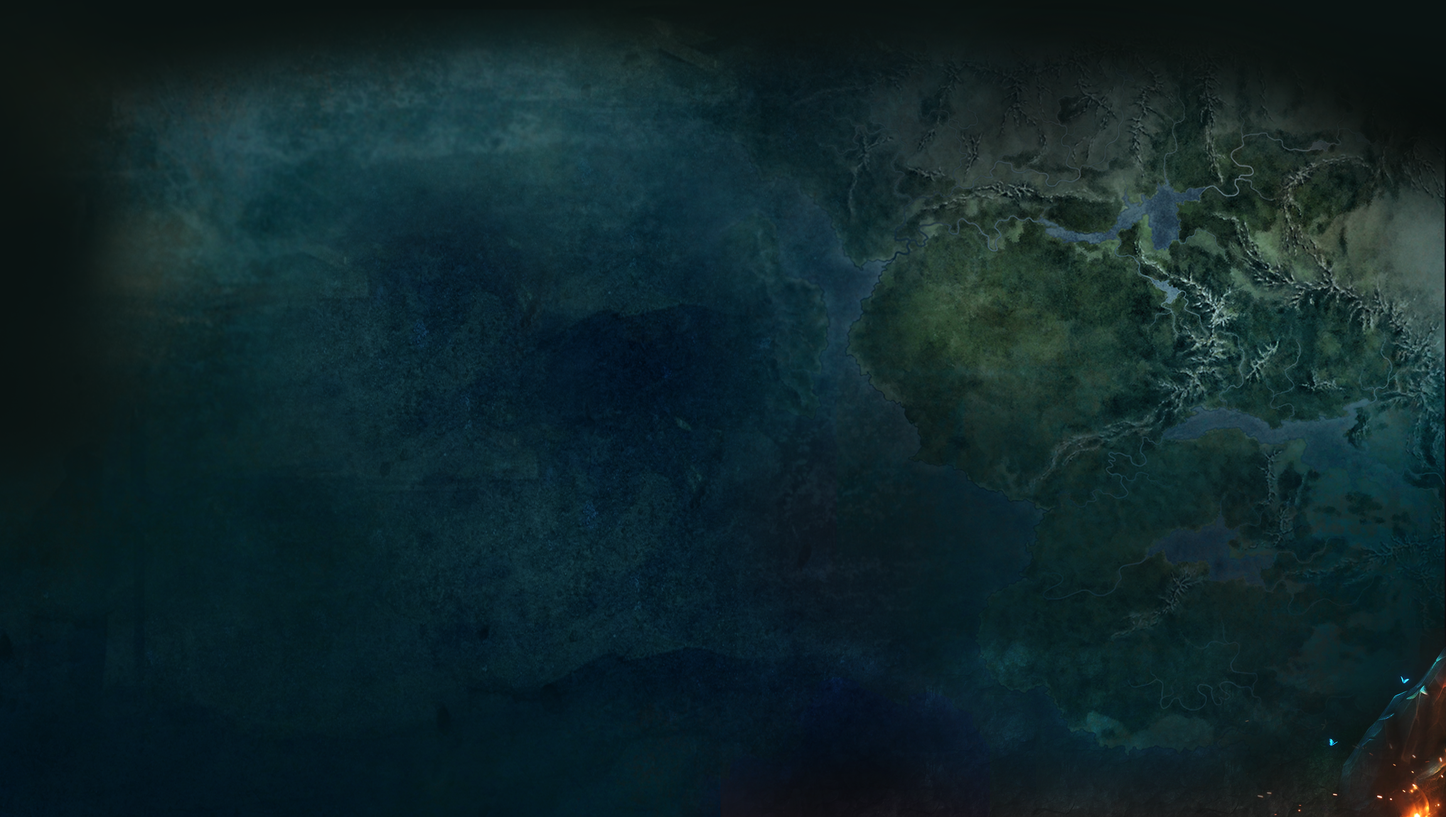
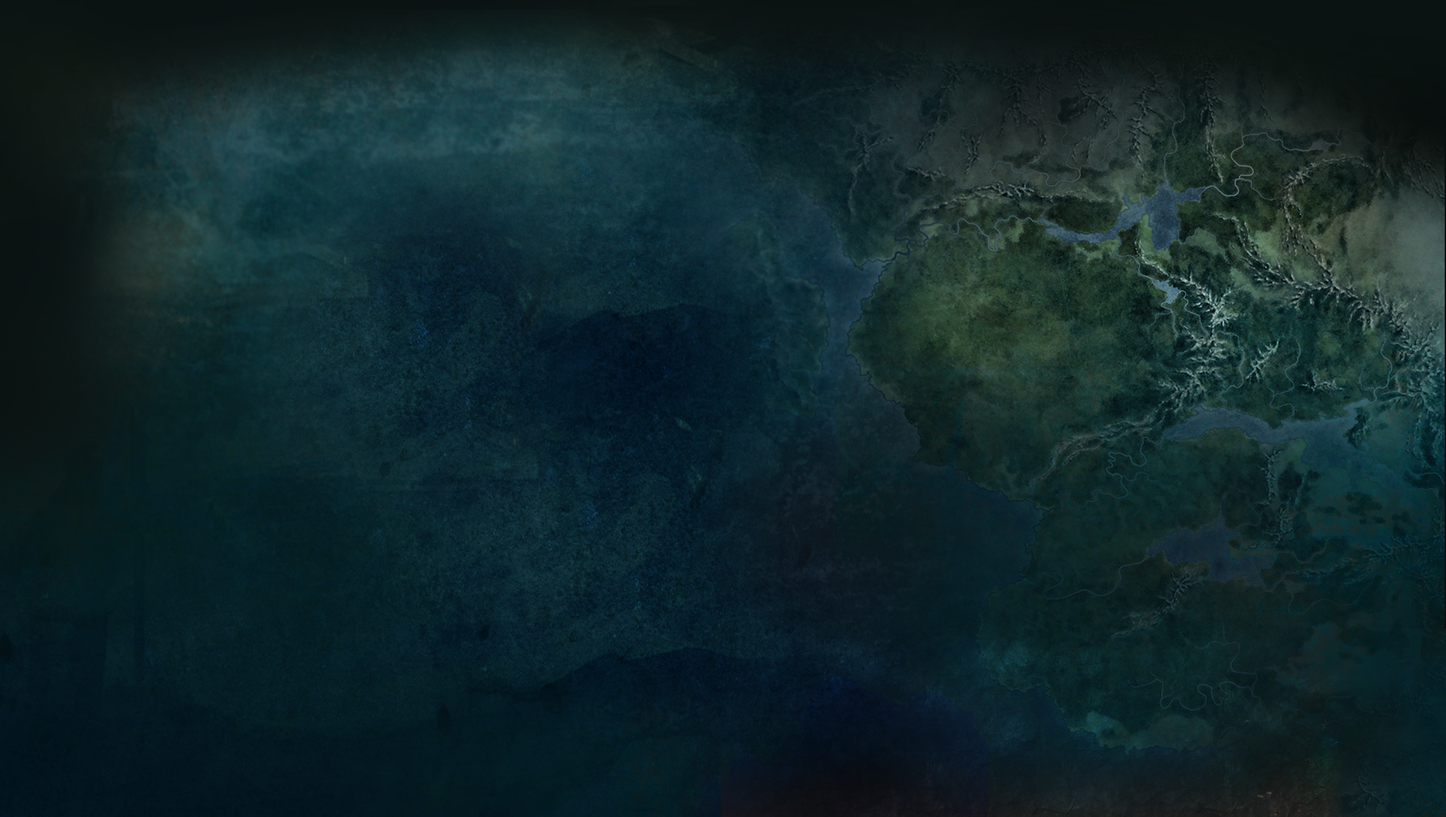
NorthGame rock fire animation

Changed region(s): [[0.9375, 0.7988, 1.0, 1.0]]

diff --git a/Samples/NorthGame/Unity/Assets/NoesisGUI/Samples/NorthGame/Play.xaml b/Samples/NorthGame/Unity/Assets/NoesisGUI/Samples/NorthGame/Play.xaml
@@ -399,15 +399,22 @@
                                 <StackPanel.ToolTip>
                                     <ToolTip BorderBrush="#FF6EB3CE" Background="#E51B4144" BorderThickness="1" Padding="10">
                                         <StackPanel>
-                                            <TextBlock FontSize="20">
-                                                <Span Foreground="#FFE8CD41" FontFamily="Fonts/#Interstate-Bold">GOLD:</Span> <Span Foreground="#FFB2E7E3">1280 coins</Span>
-                                            </TextBlock>
-                                            <TextBlock FontSize="20" Margin="0,10,0,0">
-                                                <Span Foreground="#FFAFBDC1" FontFamily="Fonts/#Interstate-Bold">SILVER:</Span> <Span Foreground="#FFB2E7E3">3547 coins</Span>
-                                            </TextBlock>
-                                            <TextBlock FontSize="20" Margin="0,10,0,0">
-                                                <Span Foreground="#FF91711B" FontFamily="Fonts/#Interstate-Bold">BRONZE:</Span> <Span Foreground="#FFB2E7E3">9415 coins</Span>
-                                            </TextBlock>
+                                            <StackPanel Orientation="Horizontal">
+                                                <Ellipse Fill="#FFE8CD41" Stroke="#FF91802C" StrokeThickness="3" Width="18" Height="18" Margin="0,0,8,0"/>
+                                                <TextBlock FontSize="20" Foreground="#FFE8CD41" FontFamily="Fonts/#Interstate-Bold" Width="90" Text="GOLD:" Margin="0,0,8,0"/>
+                                                <TextBlock FontSize="20" Foreground="#FFB2E7E3" Text="1280 coins"/>
+                                            </StackPanel>
+                                            <StackPanel Orientation="Horizontal" Margin="0,10,0,0">
+                                                <Ellipse Fill="#FFAFBDC1" Stroke="#FF7A7F81" StrokeThickness="3" Width="18" Height="18" Margin="0,0,8,0"/>
+                                                <TextBlock FontSize="20" Foreground="#FFAFBDC1" FontFamily="Fonts/#Interstate-Bold" Width="90" Text="SILVER:" Margin="0,0,8,0"/>
+                                                <TextBlock FontSize="20" Foreground="#FFB2E7E3" Text="3547 coins"/>
+                                            </StackPanel>
+                                            <StackPanel Orientation="Horizontal" Margin="0,10,0,0">
+                                                <Ellipse Fill="#FF91711B" Stroke="#FF594718" StrokeThickness="3" Width="18" Height="18" Margin="0,0,8,0"/>
+                                                <TextBlock FontSize="20" Foreground="#FF91711B" FontFamily="Fonts/#Interstate-Bold" Width="90" Text="BRONZE:" Margin="0,0,8,0"/>
+                                                <TextBlock FontSize="20" Foreground="#FFB2E7E3" Text="9415 coins"/>
+
+                                            </StackPanel>
                                         </StackPanel>
                                     </ToolTip>
                                 </StackPanel.ToolTip>
@@ -455,7 +462,7 @@
                                     </ToolTip>
                                 </StackPanel.ToolTip>
                                 <Decorator Height="38"/>
-                                <TextBlock Text="Next Schedule Game:  " Foreground="#FFFCFCFC" VerticalAlignment="Center" FontSize="24"
+                                <TextBlock Text="Next Game:  " Foreground="#FFFCFCFC" VerticalAlignment="Center" FontSize="24"
                                            noesis:Text.Stroke="{StaticResource Brush.Text.Shadow}" noesis:Text.StrokeThickness="3.5"/>
                                 <TextBlock Text="{Binding NextGame}" Foreground="#FF41B3C0" VerticalAlignment="Center" FontSize="24"
                                            noesis:Text.Stroke="{StaticResource Brush.Text.Shadow}" noesis:Text.StrokeThickness="4.5"/>

diff --git a/Samples/NorthGame/Unity/Assets/NoesisGUI/Samples/NorthGame/MainWindow.xaml b/Samples/NorthGame/Unity/Assets/NoesisGUI/Samples/NorthGame/MainWindow.xaml
@@ -59,14 +59,47 @@
                 <EasingDoubleKeyFrame KeyTime="0:0:2" Value="1.75"/>
             </DoubleAnimationUsingKeyFrames>
         </Storyboard>
+        <Storyboard x:Key="Fire" SpeedRatio="0.5" RepeatBehavior="Forever">
+            <DoubleAnimationUsingKeyFrames Storyboard.TargetProperty="(Shape.Fill).(Brush.Opacity)" Storyboard.TargetName="FireGlow">
+                <EasingDoubleKeyFrame KeyTime="0" Value="0"/>
+                <EasingDoubleKeyFrame KeyTime="0:0:1.0" Value="0.08"/>
+                <EasingDoubleKeyFrame KeyTime="0:0:1.6" Value="0.3"/>
+                <EasingDoubleKeyFrame KeyTime="0:0:2.2" Value="0.1"/>
+                <EasingDoubleKeyFrame KeyTime="0:0:2.8" Value="0.25"/>
+                <EasingDoubleKeyFrame KeyTime="0:0:3.5" Value="0"/>
+                <EasingDoubleKeyFrame KeyTime="0:0:4.5" Value="0"/>
+                <EasingDoubleKeyFrame KeyTime="0:0:5.2" Value="0.35"/>
+                <EasingDoubleKeyFrame KeyTime="0:0:6.2" Value="0"/>
+                <EasingDoubleKeyFrame KeyTime="0:0:7.5" Value="0"/>
+            </DoubleAnimationUsingKeyFrames>
+        </Storyboard>
     </Grid.Resources>
     <Grid.Triggers>
         <EventTrigger RoutedEvent="FrameworkElement.Loaded">
             <BeginStoryboard Storyboard="{StaticResource Clouds}"/>
+            <BeginStoryboard Storyboard="{StaticResource Fire}"/>
         </EventTrigger>
     </Grid.Triggers>
     <Grid>
         <Image Source="Images/Background.png" Stretch="UniformToFill" HorizontalAlignment="Center" VerticalAlignment="Center"/>
+        <Grid>
+            <Grid.RowDefinitions>
+                <RowDefinition Height="8*"/>
+                <RowDefinition Height="2*"/>
+            </Grid.RowDefinitions>
+            <Image Grid.Row="1" Source="Images/RockFire.png" Stretch="Uniform" HorizontalAlignment="Right"/>
+            <Rectangle x:Name="FireGlow" Grid.Row="1" Width="{Binding ActualHeight, ElementName=FireGlow}" HorizontalAlignment="Right">
+                <Rectangle.Fill>
+                    <RadialGradientBrush Center="0.83,1" GradientOrigin="0.83,1" RadiusX="0.769" RadiusY="1" Opacity="0">
+                        <GradientStop Color="#FFFFFDD1" Offset="0"/>
+                        <GradientStop Color="#FFFF9433" Offset="0.115"/>
+                        <GradientStop Color="#FFB0431D" Offset="0.264"/>
+                        <GradientStop Color="#FF52251A" Offset="0.486"/>
+                        <GradientStop Color="#0052251A" Offset="1"/>
+                    </RadialGradientBrush>
+                </Rectangle.Fill>
+            </Rectangle>
+        </Grid>
         <Viewbox>
             <Grid Margin="150">
                 <Rectangle x:Name="CloudBig" Width="800" Height="500" RenderTransformOrigin="0.5,0.5">
